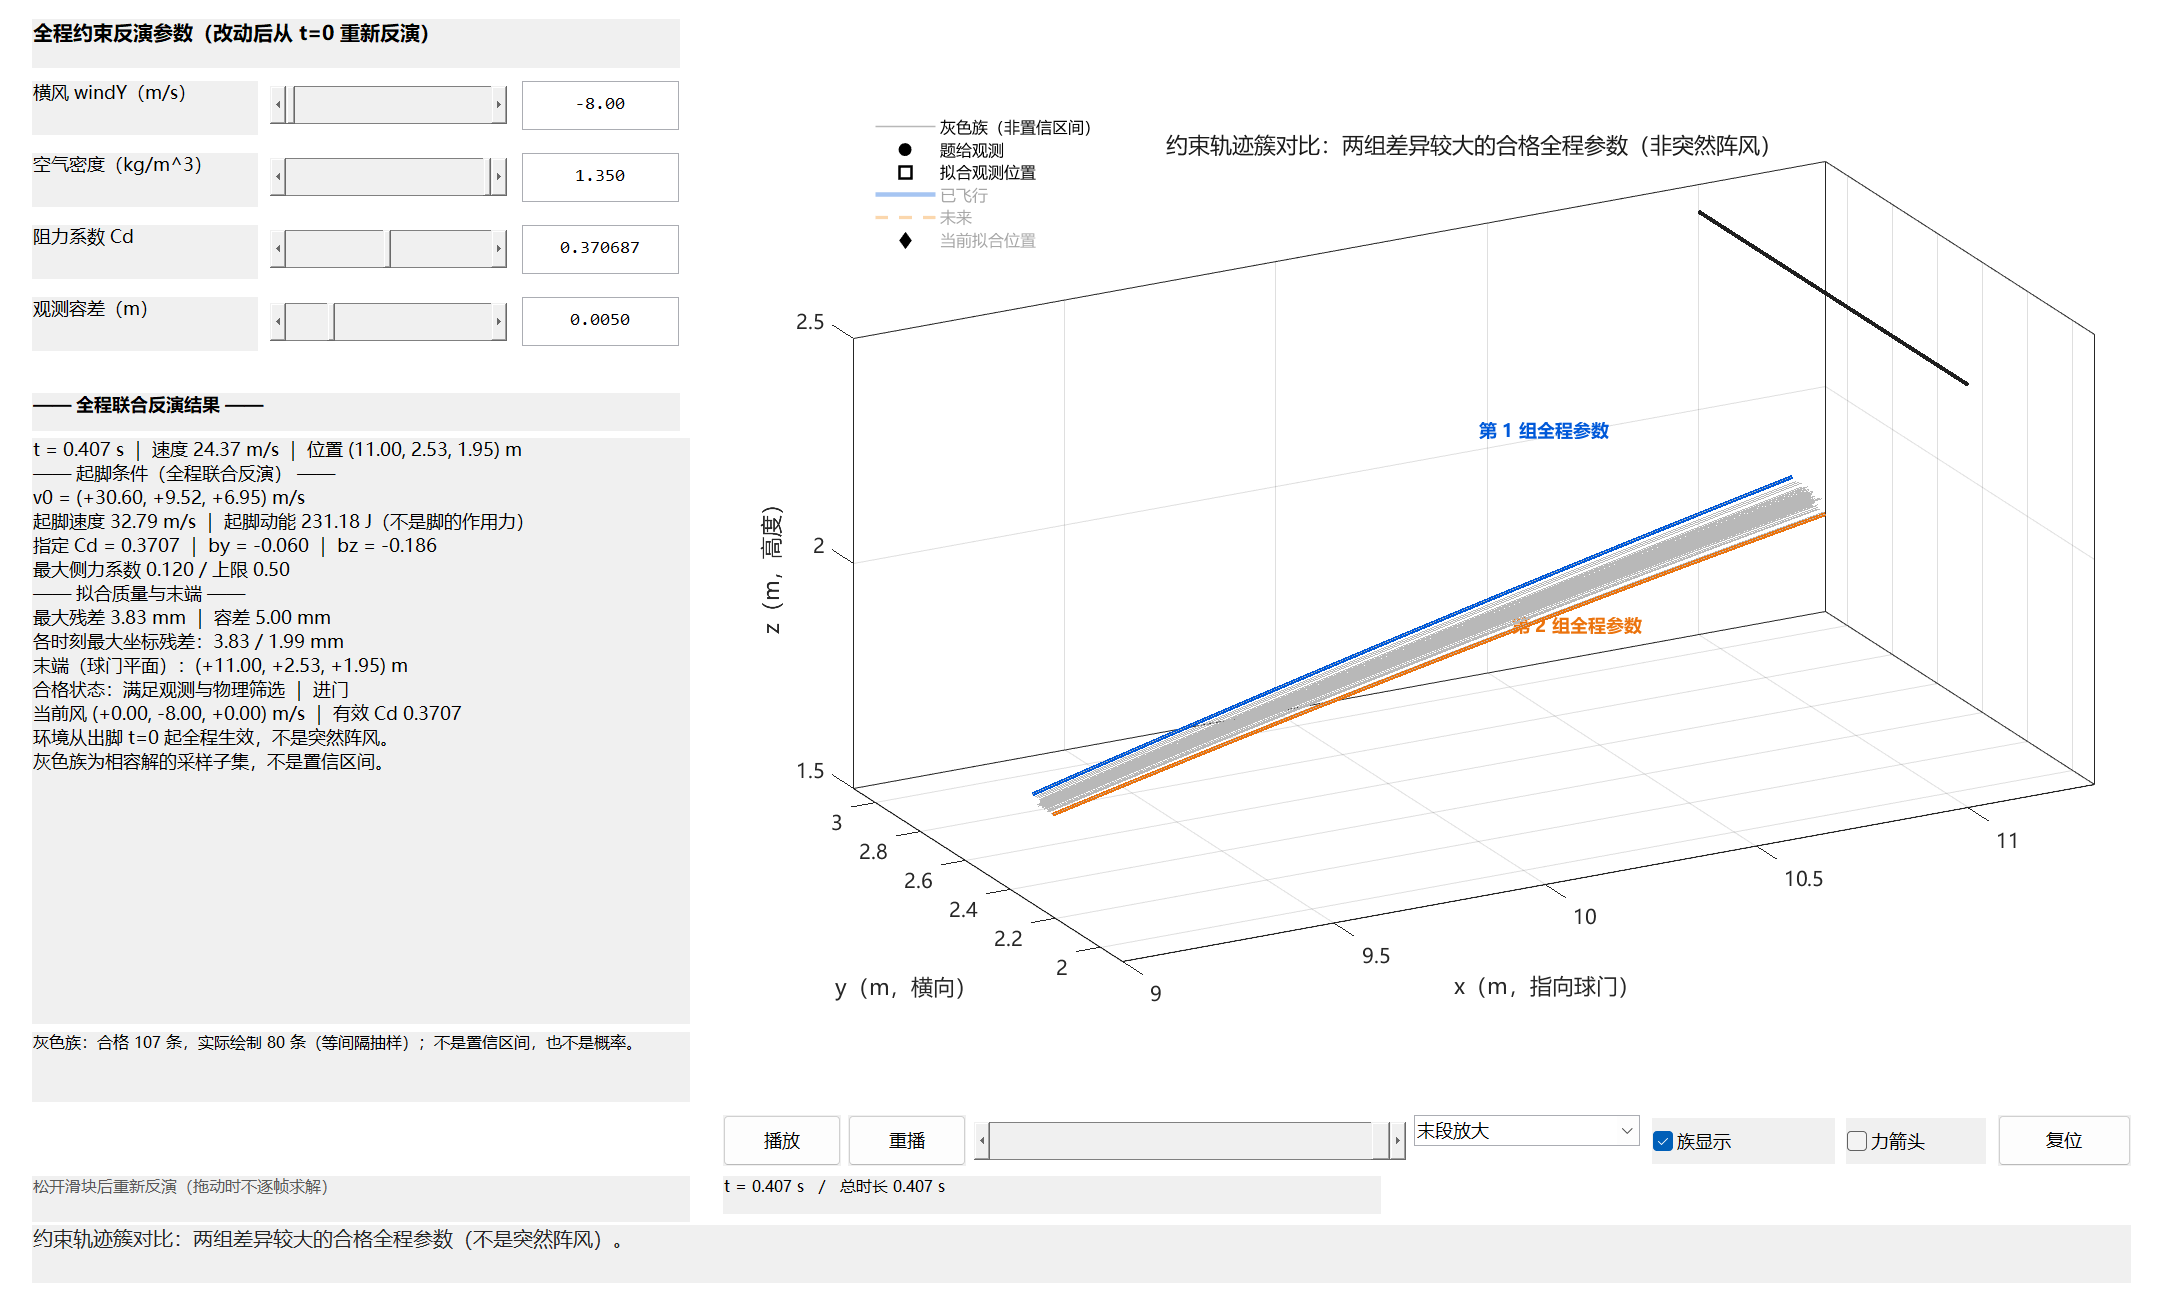
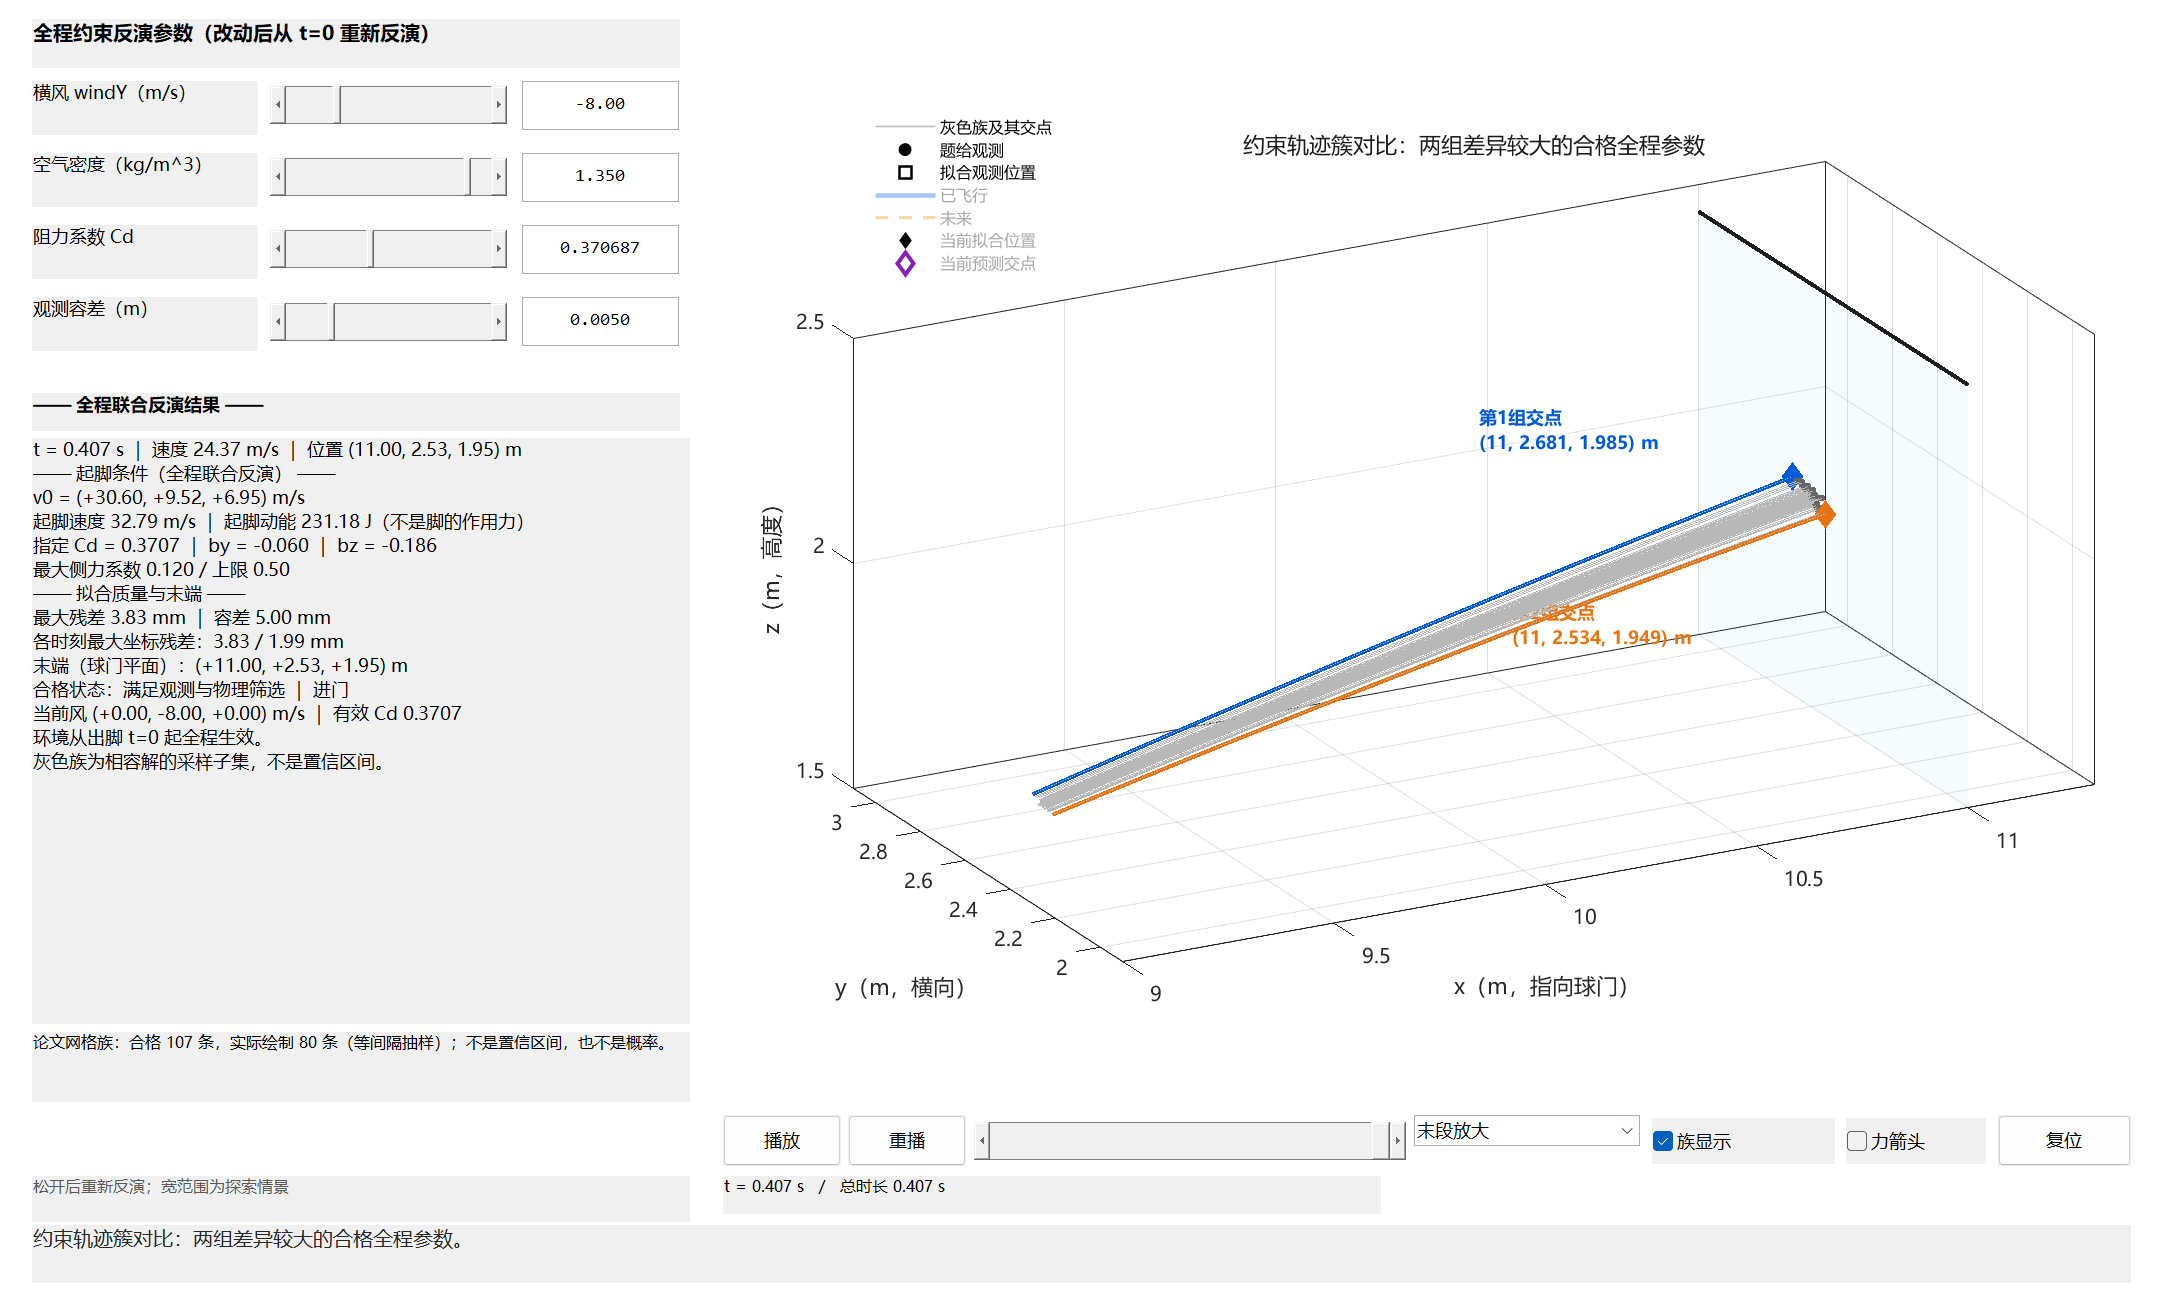
仿真可视化增强，曲线与平面有交点

diff --git a/仿真/Matlab版/penalty_view.m b/仿真/Matlab版/penalty_view.m
@@ -77,6 +77,20 @@ plot3(ax3,xPlane*[1 1],[-goalHW goalHW],goalH*[1 1],'-','Color',[0.12 0.12 0.12]
 plot3(ax3,xPlane*[1 1],[-goalHW goalHW],[0 0],'-','Color',[0.12 0.12 0.12], ...
     'LineWidth',1.0,'HandleVisibility','off');
 
+% 半透明门面表示x=11的门口区域，交点仍由求解器事件定位。
+patch(ax3,11*ones(1,4),[-goalHW goalHW goalHW -goalHW],[0 0 goalH goalH], ...
+    [.20 .65 .85],'FaceAlpha',.045,'EdgeColor','none','HandleVisibility','off','Tag','GoalPlane');
+hFamilyGoal=plot3(ax3,nan,nan,nan,'.','Color',[.40 .40 .40],'MarkerSize',9, ...
+    'HandleVisibility','off','Tag','FamilyGoalIntersections');
+hGoalPoint=plot3(ax3,nan,nan,nan,'d','Color',[.55 .12 .70], ...
+    'MarkerFaceColor','none','MarkerSize',18,'LineWidth',2, ...
+    'DisplayName','当前预测交点','Tag','GoalIntersection');
+hGoalCross=plot3(ax3,nan,nan,nan,'-','Color',[.55 .12 .70], ...
+    'LineWidth',1.4,'HandleVisibility','off','Tag','GoalIntersectionCross');
+hGoalText=text(ax3,0,0,0,'','FontName',fnUI,'FontSize',9, ...
+    'Color',[.45 .08 .60],'BackgroundColor','w','Margin',3,'Clipping','on', ...
+    'HandleVisibility','off','Tag','GoalIntersectionLabel');
+
 % 灰色合格族（最多画 80 条，均匀抽样）
 maxFamLines = 80;
 famLines = gobjects(maxFamLines,1);
@@ -85,7 +99,7 @@ for k = 1:maxFamLines
         'LineWidth',0.5,'HandleVisibility','off','Tag','FamilyLine');
 end
 hFamLegend = plot3(ax3,nan,nan,nan,'-','Color',[0.72 0.72 0.72], ...
-    'LineWidth',0.8,'DisplayName','灰色族（非置信区间）');
+    'LineWidth',0.8,'DisplayName','灰色族及其交点');
 
 % 已飞行 / 未来轨迹
 hPlayed = plot3(ax3,nan,nan,nan,'-','Color',[0 0.35 0.85], ...
@@ -118,6 +132,7 @@ set([hqG hqD hqM],'Visible','off');
 % demo 对比专用（平时隐藏）
 hCmp = gobjects(1,2);
 hCmpTxt = gobjects(1,2);
+hCmpGoal=gobjects(1,2);
 hCmp(1) = plot3(ax3,nan,nan,nan,'-','Color',[0 0.35 0.85],'LineWidth',2.0, ...
     'HandleVisibility','off');
 hCmp(2) = plot3(ax3,nan,nan,nan,'-','Color',[0.92 0.45 0.05],'LineWidth',2.0, ...
@@ -127,11 +142,16 @@ hCmpTxt(1) = text(ax3,0,0,0,'第 1 组全程参数','FontName',fnUI,'FontSize',9
 hCmpTxt(2) = text(ax3,0,0,0,'第 2 组全程参数','FontName',fnUI,'FontSize',9, ...
     'Color',[0.92 0.45 0.05],'FontWeight','bold','Visible','off');
 set(hCmp,'Visible','off');
+for kk=1:2
+ hCmpGoal(kk)=plot3(ax3,nan,nan,nan,'d','MarkerSize',9,'LineWidth',1.5, ...
+  'Color',hCmp(kk).Color,'MarkerFaceColor',hCmp(kk).Color, ...
+  'Visible','off','HandleVisibility','off','Tag','ComparisonGoalIntersection');
+end
 
 xlabel(ax3,'x（m，指向球门）'); ylabel(ax3,'y（m，横向）'); zlabel(ax3,'z（m，高度）');
 title(ax3,'点球全程约束反演（灰=合格参数族；蓝=已飞行；橙=未来）', ...
     'FontName',fnUI,'FontSize',11);
-lg = legend(ax3,[hFamLegend hObs hFitObs hPlayed hFuture hCur], ...
+lg = legend(ax3,[hFamLegend hObs hFitObs hPlayed hFuture hCur hGoalPoint], ...
     'Location','northwest','FontSize',8,'Box','off');
 set(lg,'AutoUpdate','off');
 
@@ -456,7 +476,29 @@ fprintf('[penalty_view] 就绪：T=%.6f s，状态 %s，最大残差 %.6f m。\n
         t = c.t(:); s = c.state;
         if size(s,1) ~= numel(t), s = s.'; end
         assert(size(s,2) >= 6,'curve 状态必须为 N×6。');
-        curveT = t; curveS = s;     % 不拼接旧轨迹
+        curveT = t; curveS = s;
+        refreshGoalIntersection();
+    end
+
+    function refreshGoalIntersection()
+        % 只标出真正到达x=11的事件；先触地的端点不是球门交点。
+        ep=sim.endpoint(:);
+        crossing=strcmp(sim.status,'plane')&&numel(ep)>=3&&all(isfinite(ep(1:3)))&&abs(ep(1)-xPlane)<1e-7;
+        if ~crossing
+            set([hGoalPoint hGoalCross hGoalText],'Visible','off');
+            set(hGoalPoint,'XData',nan,'YData',nan,'ZData',nan);
+            return;
+        end
+        color=[.55 .12 .70];note='预测交点';
+        if ~sim.fit.feasible,color=[.82 .10 .10];note='未通过筛选的候选交点';end
+        set(hGoalPoint,'XData',ep(1),'YData',ep(2),'ZData',ep(3),'Color',color,'MarkerFaceColor','none','Visible','on');
+        a=.23;
+        set(hGoalCross,'XData',ep(1)*ones(1,5), ...
+            'YData',[ep(2)-a ep(2)+a nan ep(2) ep(2)], ...
+            'ZData',[ep(3) ep(3) nan ep(3)-a ep(3)+a],'Color',color,'Visible','on');
+        set(hGoalText,'Position',[ep(1)-.65 ep(2)+.15 ep(3)+.26], ...
+            'String',sprintf('%s\n(11, %.3f, %.3f) m',note,ep(2),ep(3)), ...
+            'Color',color,'Visible','on');
     end
 
     function refreshObservations()
@@ -577,7 +619,7 @@ fprintf('[penalty_view] 就绪：T=%.6f s，状态 %s，最大残差 %.6f m。\n
             sprintf('末端（%s）：(%+.2f, %+.2f, %+.2f) m',statusChinese(sim.status),ep(1),ep(2),ep(3)), ...
             sprintf('合格状态：%s ｜ %s',feasTxt,openTxt), ...
             sprintf('当前风 (%+.2f, %+.2f, %+.2f) m/s ｜ 有效 Cd %.4f',w(1),w(2),w(3),CdNow), ...
-            '环境从出脚 t=0 起全程生效，不是突然阵风。', ...
+            '环境从出脚 t=0 起全程生效。', ...
             '灰色族为相容解的采样子集，不是置信区间。'};
         set(hInfo,'String',lines);
     end
@@ -676,9 +718,13 @@ fprintf('[penalty_view] 就绪：T=%.6f s，状态 %s，最大残差 %.6f m。\n
         else
             idx = [];
         end
+        crossings=zeros(0,3);
         for kk = 1:maxFamLines
             if kk <= familyDrawn
-                tr = family(idx(kk)).trajectory;
+                member=family(idx(kk));tr=member.trajectory;
+                if strcmp(member.status,'plane')&&abs(member.endpoint(1)-xPlane)<1e-7
+                    crossings(end+1,:)=member.endpoint(1:3)'; %#ok<AGROW>
+                end
                 if size(tr,2) >= 3
                     set(famLines(kk),'XData',tr(:,1),'YData',tr(:,2),'ZData',tr(:,3));
                 else
@@ -688,6 +734,7 @@ fprintf('[penalty_view] 就绪：T=%.6f s，状态 %s，最大残差 %.6f m。\n
                 set(famLines(kk),'XData',NaN,'YData',NaN,'ZData',NaN);
             end
         end
+        set(hFamilyGoal,'XData',crossings(:,1),'YData',crossings(:,2),'ZData',crossings(:,3));
         updateFamilyVisibility();
         updateFamilyNote();
     end
@@ -695,6 +742,7 @@ fprintf('[penalty_view] 就绪：T=%.6f s，状态 %s，最大残差 %.6f m。\n
     function updateFamilyVisibility()
         vis = 'off';
         if get(hFamilyToggle,'Value'), vis = 'on'; end
+        set(hFamilyGoal,'Visible',vis);
         for kk = 1:familyDrawn
             set(famLines(kk),'Visible',vis);
         end
@@ -773,9 +821,9 @@ fprintf('[penalty_view] 就绪：T=%.6f s，状态 %s，最大残差 %.6f m。\n
         for jj = 1:2
             selectScenario(sims{jj},ps{jj});
             if jj == 1
-                setStatus('约束轨迹簇演示：第 1 组全程参数；环境从出脚起全程生效，不是突然阵风。');
+                setStatus('约束轨迹簇演示：第 1 组全程参数；环境从出脚起全程生效。');
             else
-                setStatus('切换：另一组全程参数（第 2 组）；环境从出脚起全程生效，不是突然阵风。');
+                setStatus('切换：另一组全程参数（第 2 组）；环境从出脚起全程生效。');
             end
             for kk = 1:half
                 tNow = sim.tEnd*(kk-1)/(half-1);
@@ -787,7 +835,7 @@ fprintf('[penalty_view] 就绪：T=%.6f s，状态 %s，最大残差 %.6f m。\n
         end
 
         drawComparison(sims);
-        setStatus('约束轨迹簇对比：两组差异较大的合格全程参数（不是突然阵风）。');
+        setStatus('约束轨迹簇对比：两组差异较大的合格全程参数。');
         drawnow;
         fr = getframe(fig);
         imwrite(frame2im(fr),pngPath);
@@ -825,14 +873,18 @@ fprintf('[penalty_view] 就绪：T=%.6f s，状态 %s，最大残差 %.6f m。\n
             c = penalty_scenario('curve',simsCell{jj});
             set(hCmp(jj),'XData',c.state(:,1),'YData',c.state(:,2),'ZData',c.state(:,3));
             ep = simsCell{jj}.endpoint(:);
+            if strcmp(simsCell{jj}.status,'plane')
+                set(hCmpGoal(jj),'XData',ep(1),'YData',ep(2),'ZData',ep(3),'Visible','on');
+                set(hCmpTxt(jj),'String',sprintf('第%d组交点\n(11, %.3f, %.3f) m',jj,ep(2),ep(3)));
+            end
             set(hCmpTxt(jj),'Position',[ep(1)-.7,ep(2)+.08,ep(3)+(.20-.35*(jj-1))]);
         end
-        set([hPlayed hFuture hCur],'Visible','off');
+        set([hPlayed hFuture hCur hGoalPoint hGoalCross hGoalText],'Visible','off');
         set([hqG hqD hqM],'Visible','off');
         set(hBall,'Visible','off');
         set(hObs,'Visible','on'); set(hFitObs,'Visible','on');
         set(hCmp,'Visible','on'); set(hCmpTxt,'Visible','on');
-        set(ax3.Title,'String','约束轨迹簇对比：两组差异较大的合格全程参数（非突然阵风）');
+        set(ax3.Title,'String','约束轨迹簇对比：两组差异较大的合格全程参数');
         set(hView,'Value',2);applyView();view(ax3,-28,20);
     end
 

diff --git a/仿真/Matlab版/scenario_ui_checks.m b/仿真/Matlab版/scenario_ui_checks.m
@@ -37,6 +37,7 @@ st=control('StatusText');
 famNote=control('FamilyNote');
 assert(~isempty(strfind(get(famNote,'String'),'置信区间')), ...
     '族说明必须明确“不是置信区间”。');
+checkIntersection();
 report.singleAxes=true;
 report.fourParameters=true;
 
@@ -73,6 +74,7 @@ if sim.fit.feasible
 end
 assert(sim.fit.feasible,'温和横风候选应满足默认容差。');
 assert(norm([get(findobj(ax(1),'Tag','Observed'),'XData')]-[1.5 2.96])<1e-12,'黑色观测点不能随拟合移动。');
+checkIntersection();
 report.feasibleAfterEdit=sim.fit.feasible;
 report.rebuildFromZero=true;
 report.v0Changed=true;
@@ -162,6 +164,8 @@ invoke(control('ReplayButton'));
 assert(getappdata(f,'CurrentTime')==0,'重播必须回到 t=0。');
 assert(norm(getappdata(f,'Scenario').theta-resetSim.theta)<1e-12, ...
     '重播不应改变全程反演结果。');
+checkIntersection();
+report.goalIntersectionsSynchronized=true;
 report.replayReturnsToZero=true;
 
 % ---------- 关闭清理 timer ----------
@@ -184,6 +188,24 @@ disp(report);
     function h=control(tag)
         h=findobj(f,'Tag',tag);
         assert(isscalar(h),['缺少控件 ' tag]);
+    end
+    function checkIntersection()
+        current=getappdata(f,'Scenario');h=findobj(f,'Tag','GoalIntersection');
+        assert(isscalar(h));
+        if strcmp(current.status,'plane')
+            point=[h.XData h.YData h.ZData];
+            assert(norm(point-current.endpoint(1:3)')<1e-10,'交点须精确对应事件定位结果。');
+            assert(strcmp(h.Visible,'on'));
+            note=findall(f,'Tag','GoalIntersectionLabel');
+            assert(any(contains(string(note.String),sprintf('%.3f',current.endpoint(2))),'all'));
+        else
+            assert(strcmp(h.Visible,'off'),'提前触地时不能冒充球门交点。');
+        end
+        dots=findall(f,'Tag','FamilyGoalIntersections');
+        assert(all(abs(dots.XData-11)<1e-7),'族交点必须位于x=11平面。');
+        toggle=control('FamilyToggle');old=toggle.Value;
+        set(toggle,'Value',0);invoke(toggle);assert(strcmp(dots.Visible,'off'));
+        set(toggle,'Value',old);invoke(toggle);
     end
     function invoke(h)
         feval(h.Callback,h,[]);

diff --git a/latex/knowledge/B题建模与验证.md b/latex/knowledge/B题建模与验证.md
@@ -226,3 +226,9 @@ MATLAB主入口为 `仿真/Matlab版/penalty.m`；函数文件名采用MATLAB合
 `penalty_figures`在同一次调用中输出两套图片：根`img/`为英文，`img/中文/`为中文。两种稿分别引用各自语言图片；正文和附录当前引用的六张图均由该函数维护。先在同一图形对象中绘制数值曲线，再只替换文字；导出前后逐项核对X/Y/Z数据和坐标范围，结果保存于`data/派生数据/论文配图核查.json`。修改任何图的绘制代码后运行此入口，两种语言同步更新，不能手工只修一张PNG。
 
 交互控件扩展为横风[-15,15] m/s、空气密度[0.90,1.40] kg/m³、CD[0.08,0.80]；容差仍为[0.001,0.020] m。宽范围用于探索，不是球型实测参数区间。每次仍联合反求出脚量，再检查观测残差、初速10–40 m/s、有效侧力系数≤0.50与地面事件；不通过的组合标红并留存原因。正式论文统计采用原先声明的231个剖面，因此107个相容代表的分母与含义不变。灰色轨迹族对应论文网格，不包络扩展范围中的全部射门。
+
+### 三维界面的球门交点
+
+单一三维主图在x=11的门口区域绘制半透明平面。当前候选通过球门平面的事件点用紫色菱形及平面十字标记，旁边显示(11,y,z)坐标；不相容候选的交点显示红色。灰色轨迹及对应灰色交点成对显示/隐藏，且只给实际绘出的族成员标交点。参数重反演时一起更新。两代表演示保留两组各自的交点与坐标。
+
+交点直接读取ODE终止事件的endpoint，未从稀疏绘图采样点插值。若候选先触地或未到球门，隐藏球门交点，不能把终止点投影到x=11冒充穿越。交点标记表示预测结果，播放到达之前也可见。

diff --git a/项目进度/项目进度.md b/项目进度/项目进度.md
@@ -13,6 +13,8 @@
 
 ## 已完成
 
+- MATLAB单主图增加球门平面与交点：当前候选标菱形/十字及坐标，族曲线显示对应灰色交点，两代表演示显示各自交点；使用ODE事件坐标，调参同步，先触地则不显示球门交点。
+
 - 六张论文引用图统一由penalty_figures生成英文与中文两版，中文在img/中文，英文在img；只替换文字，自动核对曲线与坐标范围一致，记录在data/派生数据/论文配图核查.json。中文稿严格引用中文图目录。
 - MATLAB交互探索范围扩大：横风[-15,15] m/s、密度[0.90,1.40] kg/m³、CD[0.08,0.80]；观测/初速/侧力/接地筛选继续生效。边界候选和真实UI回调通过。正式论文231剖面统计继续使用明确声明的采样网格，灰色族不冒充扩展范围包络。
 
